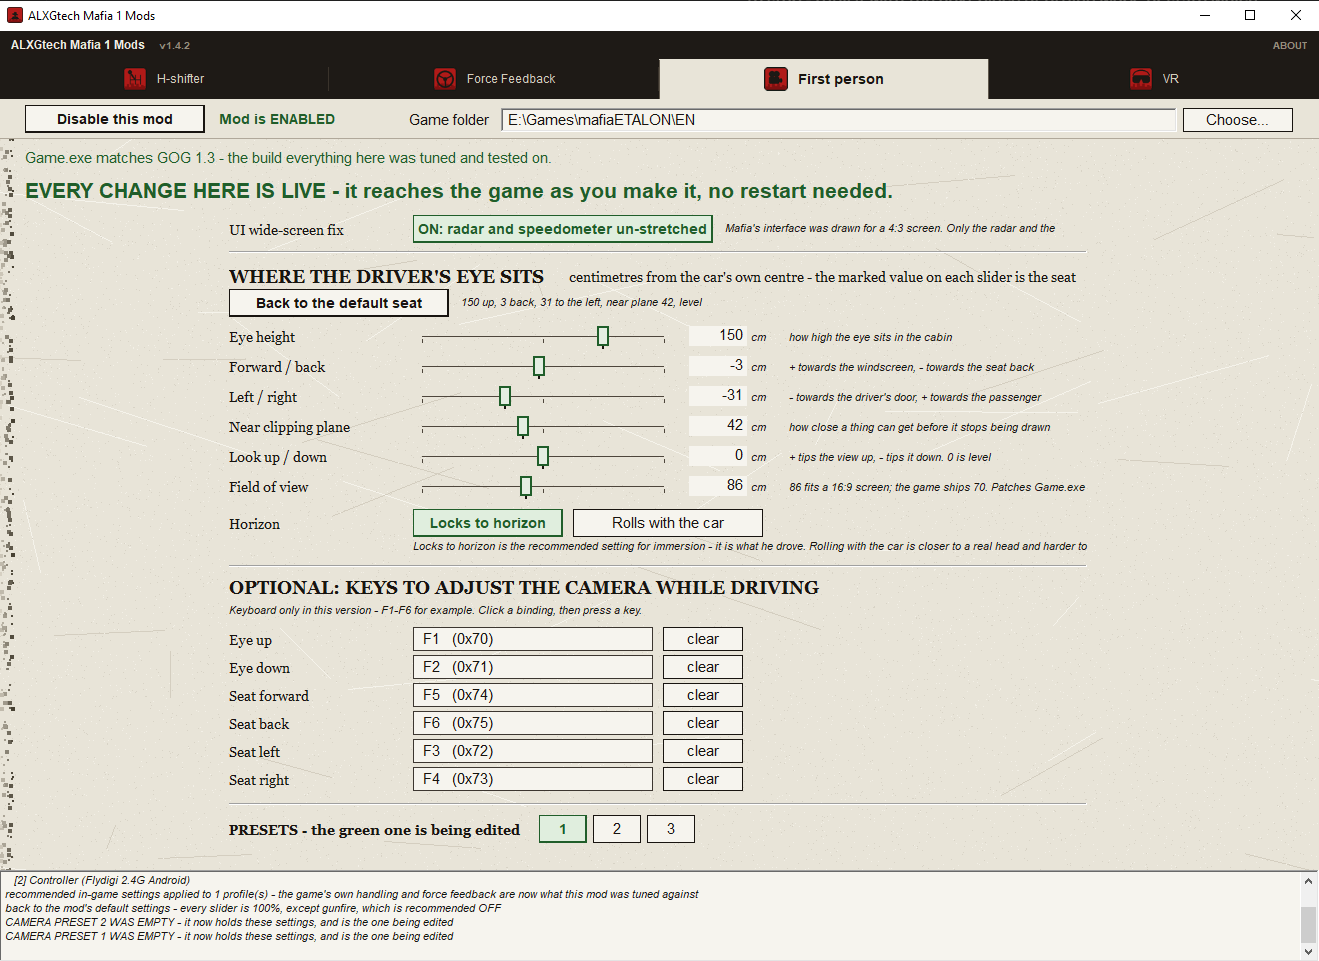
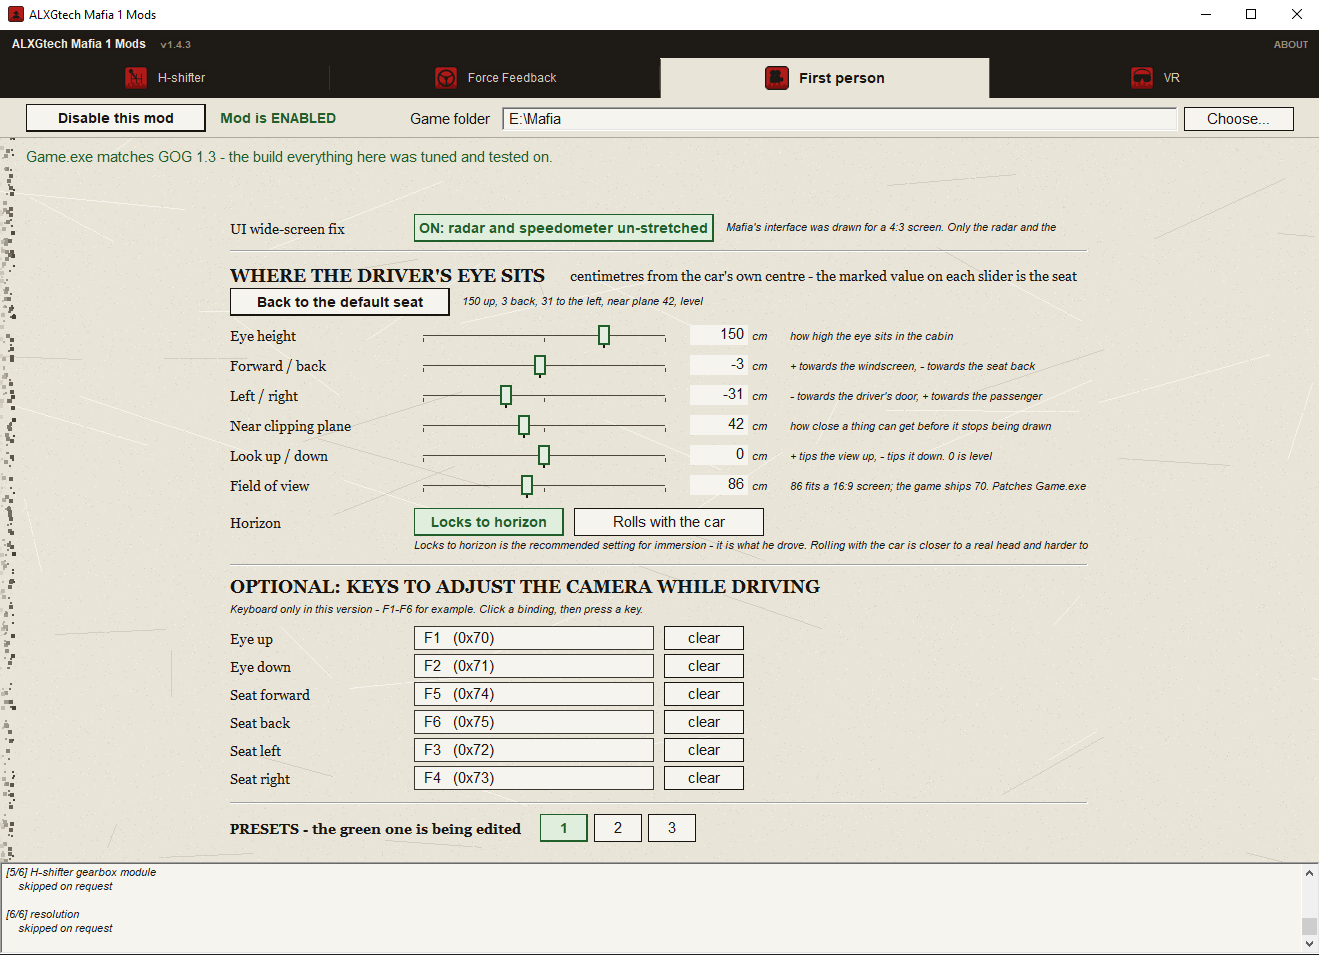
Name the exact build in every description, and use the reshot screenshots
**The version is now in the one-line description too.** The page said it eight times further down,
but the opening line only said "the GOG release". It now reads GOG release, v1.3 build 16073, in
all three languages - the same as the repository's own About blurb, which carried no version at
all until today.

**The three tab screenshots are reshot.** Same windows, same settings, taken on a clean install
path.

One wording fix in the Russian: it said the original bytes are recorded "into the log" where the
English says only that they are recorded. The English is the reference.

diff --git a/README.ru.md b/README.ru.md
@@ -2,8 +2,8 @@
 
 # ALXGtech Mafia 1 Mods
 
-Обратная связь, камера от первого лица за рулём и H-шифтер для GOG-издания Mafia: The City
-of Lost Heaven. Одна утилита, которая всё это ставит и снимает.
+Обратная связь, камера от первого лица за рулём и H-шифтер для **GOG-издания, v1.3 build
+16073**, Mafia: The City of Lost Heaven. Одна утилита, которая всё это ставит и снимает.
 
 ![ALXGtech Mafia 1 Mods - обратная связь, камера от первого лица, H-шифтер и VR в разработке](docs/img/banner.png)
 
@@ -240,7 +240,7 @@ of Lost Heaven. Одна утилита, которая всё это стави
 
 Угол обзора - единственное здесь, что трогает `Game.exe`, и это три четырёхбайтовых float,
 той же длины, ничего не сдвинуто. `Game.exe.bak` делается до первой записи, исходные байты
-записываются в журнал, и выключение камеры пишет их обратно. Игровые данные не трогаются
+сохраняются, и выключение камеры пишет их обратно. Игровые данные не трогаются
 вовсе: ни архивы `.dta`, ни `tables\`, ни `sounds\`, ничего локализованного.
 
 Всё наше лежит в одной папке, `<game>\ALXG mods\` - журнал, настройки шифтера и настройки

diff --git a/README.md b/README.md
@@ -2,8 +2,9 @@ English | [Русский](README.ru.md) | [Čeština](README.cs.md)
 
 # ALXGtech Mafia 1 Mods
 
-Force feedback, a first-person driving camera and an H-shifter gearbox for the GOG release of
-Mafia: The City of Lost Heaven, in one utility that installs and removes them.
+Force feedback, a first-person driving camera and an H-shifter gearbox for the **GOG release,
+v1.3 build 16073**, of Mafia: The City of Lost Heaven, in one utility that installs and removes
+them.
 
 ![ALXGtech Mafia 1 Mods - force feedback, first-person camera, H-shifter, and VR in progress](docs/img/banner.png)
 

diff --git a/README.cs.md b/README.cs.md
@@ -2,8 +2,9 @@
 
 # ALXGtech Mafia 1 Mods
 
-Silová zpětná vazba volantu, kamera z pohledu řidiče a H-řadička pro GOG vydání hry Mafia: The
-City of Lost Heaven. Jeden nástroj, který to vše nainstaluje i odinstaluje.
+Silová zpětná vazba volantu, kamera z pohledu řidiče a H-řadička pro **GOG vydání, v1.3 build
+16073**, hry Mafia: The City of Lost Heaven. Jeden nástroj, který to vše nainstaluje i
+odinstaluje.
 
 ![ALXGtech Mafia 1 Mods - silová zpětná vazba, kamera z pohledu řidiče, H-řadička a VR v přípravě](docs/img/banner.png)
 
